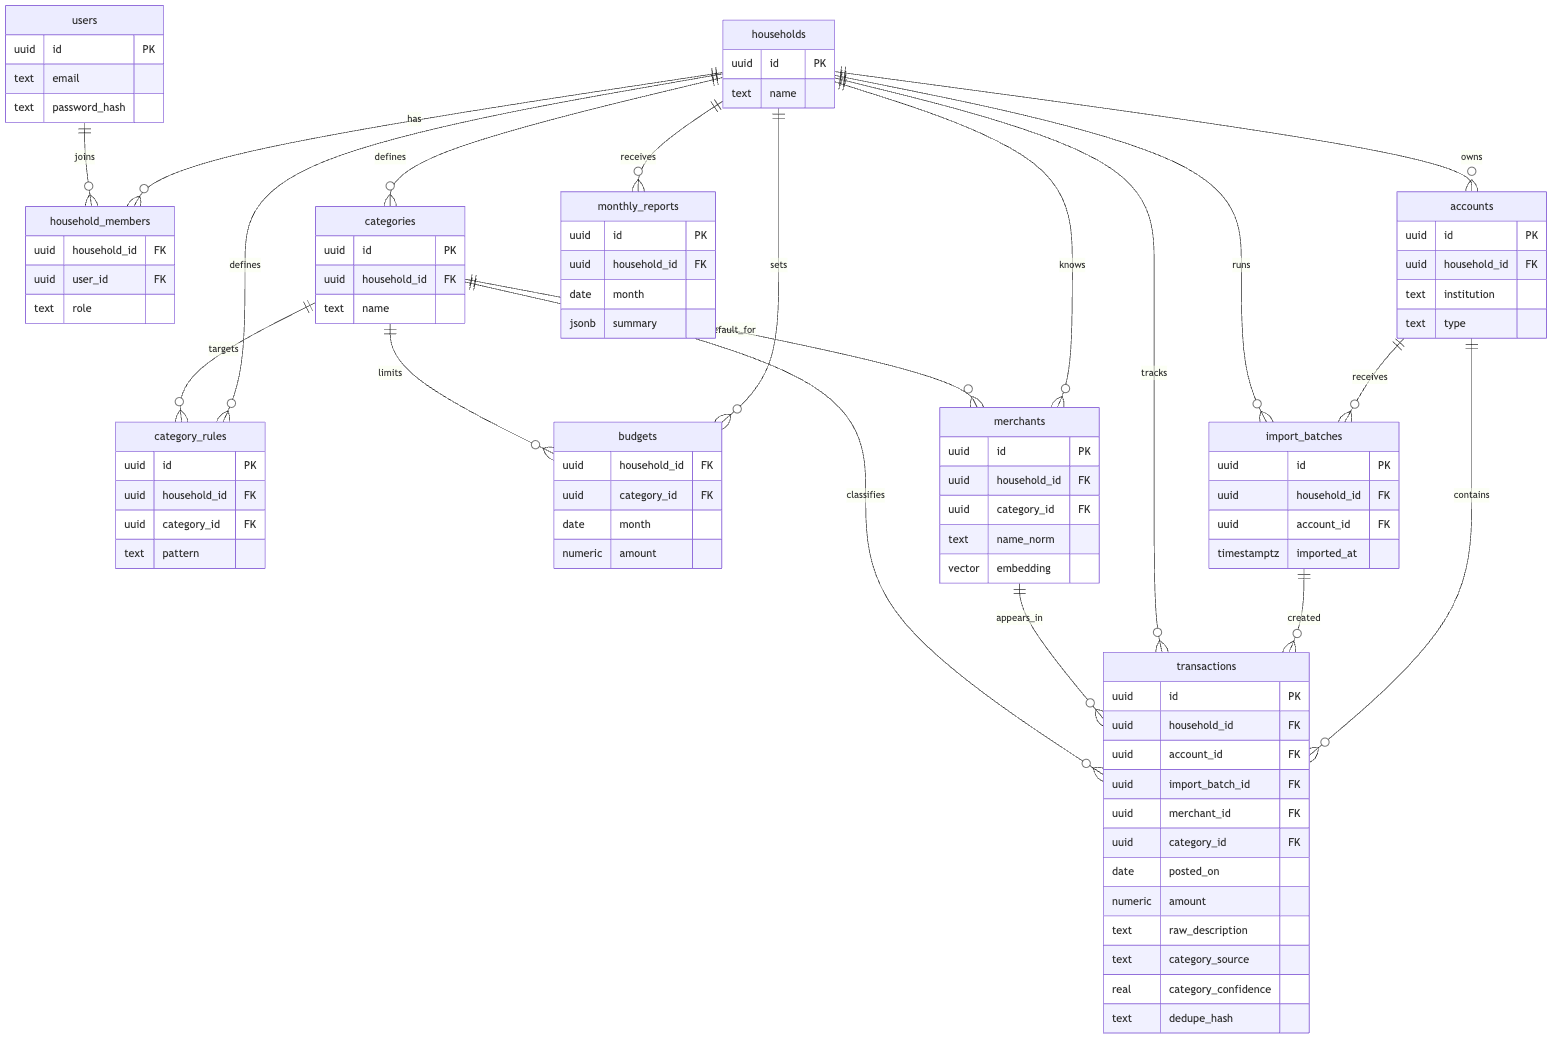
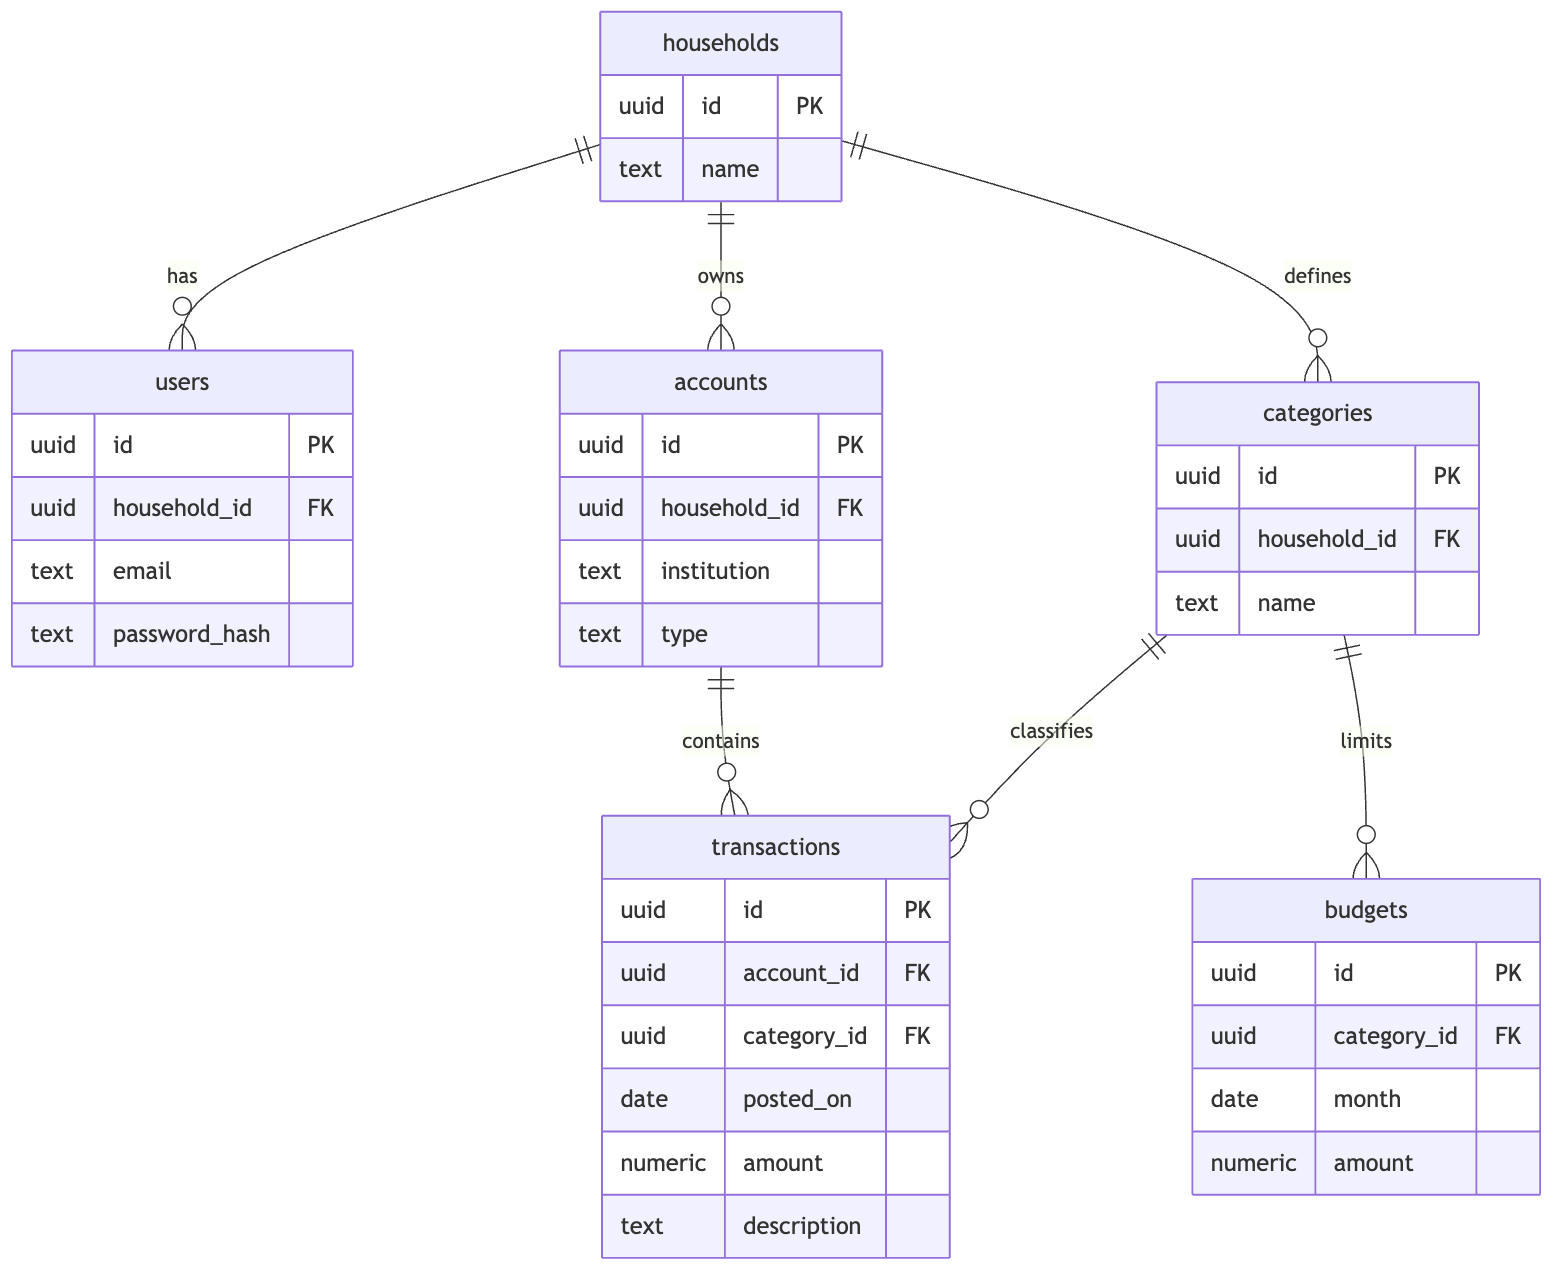
Simplify ERD to six core tables

diff --git a/docs/initial-design.md b/docs/initial-design.md
@@ -36,51 +36,40 @@ When I correct a category, that becomes a new rule and a new data point, so the 
 ![BudgetApp ERD](erd.png)
 
 **Reading the ERD**
-- **Users and households:** a user joins a household through `household_members`. Everything else belongs to a household, so my wife and I share one budget while other users get their own.
-- **Accounts and imports:** a household's `accounts` (Wells Fargo, Chase, Capital One) receive `import_batches`, and each batch creates `transactions`. A unique `dedupe_hash` (account, date, amount, description) means importing the same file twice adds nothing.
-- **Merchants:** one row per cleaned-up merchant name per household. It holds the embedding vector and the household's chosen category for that merchant, so a merchant is categorized once and every transaction from it follows. It is unique on `household_id` + `name_norm`.
-- **Categories and rules:** each household has its own `categories` and `category_rules`.
-- **Budgets and reports:** `budgets` stores an amount per category per month. `monthly_reports` stores the computed monthly summary.
-- **Tracking the AI:** each transaction records `category_source` (rule, embedding, llm or manual) and `category_confidence`, so low-confidence items can go to a "needs review" list.
-- **Separation between households:** all households share the same tables, and every table carries its own `household_id`. **Postgres row-level security** restricts every session to its own household. Embedding search is filtered by household, so one household's merchants are never compared against another's.
+- **households:** the group that shares a budget (me and my wife). Everything below belongs to a household.
+- **users:** people who log in. Each user belongs to one household.
+- **accounts:** the bank account and credit cards (Wells Fargo, Chase, Capital One).
+- **transactions:** one row per purchase or deposit. This is the main table, and each one belongs to an account and has a category.
+- **categories:** Gas, Groceries, Restaurants and so on. Each household has its own.
+- **budgets:** the amount we plan to spend on a category in a given month.
+
+The monthly report isn't a table. It's calculated by adding up each category's transactions for the month and comparing the total to its budget.
+
+**Separation between households:** every household has its own users, accounts and categories, and Postgres row-level security keeps each household's rows private.
+
+**Later additions:** a `merchants` table to hold the embeddings for categorizing, a table of import batches, and a table of saved rules.
 
 <details>
 <summary>ERD source (Mermaid)</summary>
 
 ```mermaid
 erDiagram
-    households ||--o{ household_members : has
-    users ||--o{ household_members : joins
+    households ||--o{ users : has
     households ||--o{ accounts : owns
     households ||--o{ categories : defines
-    households ||--o{ category_rules : defines
-    households ||--o{ budgets : sets
-    accounts ||--o{ import_batches : receives
     accounts ||--o{ transactions : contains
-    import_batches ||--o{ transactions : created
-    households ||--o{ merchants : knows
-    households ||--o{ import_batches : runs
-    households ||--o{ transactions : tracks
-    merchants ||--o{ transactions : appears_in
-    categories ||--o{ merchants : default_for
     categories ||--o{ transactions : classifies
     categories ||--o{ budgets : limits
-    categories ||--o{ category_rules : targets
-    households ||--o{ monthly_reports : receives
 
-    users {
-        uuid id PK
-        text email
-        text password_hash
-    }
     households {
         uuid id PK
         text name
     }
-    household_members {
+    users {
+        uuid id PK
         uuid household_id FK
-        uuid user_id FK
-        text role
+        text email
+        text password_hash
     }
     accounts {
         uuid id PK
@@ -88,55 +77,24 @@ erDiagram
         text institution
         text type
     }
-    import_batches {
-        uuid id PK
-        uuid household_id FK
-        uuid account_id FK
-        timestamptz imported_at
-    }
-    transactions {
-        uuid id PK
-        uuid household_id FK
-        uuid account_id FK
-        uuid import_batch_id FK
-        uuid merchant_id FK
-        uuid category_id FK
-        date posted_on
-        numeric amount
-        text raw_description
-        text category_source
-        real category_confidence
-        text dedupe_hash
-    }
-    merchants {
-        uuid id PK
-        uuid household_id FK
-        uuid category_id FK
-        text name_norm
-        vector embedding
-    }
     categories {
         uuid id PK
         uuid household_id FK
         text name
     }
-    category_rules {
+    transactions {
         uuid id PK
-        uuid household_id FK
+        uuid account_id FK
         uuid category_id FK
-        text pattern
+        date posted_on
+        numeric amount
+        text description
     }
     budgets {
-        uuid household_id FK
+        uuid id PK
         uuid category_id FK
         date month
         numeric amount
-    }
-    monthly_reports {
-        uuid id PK
-        uuid household_id FK
-        date month
-        jsonb summary
     }
 ```
 
